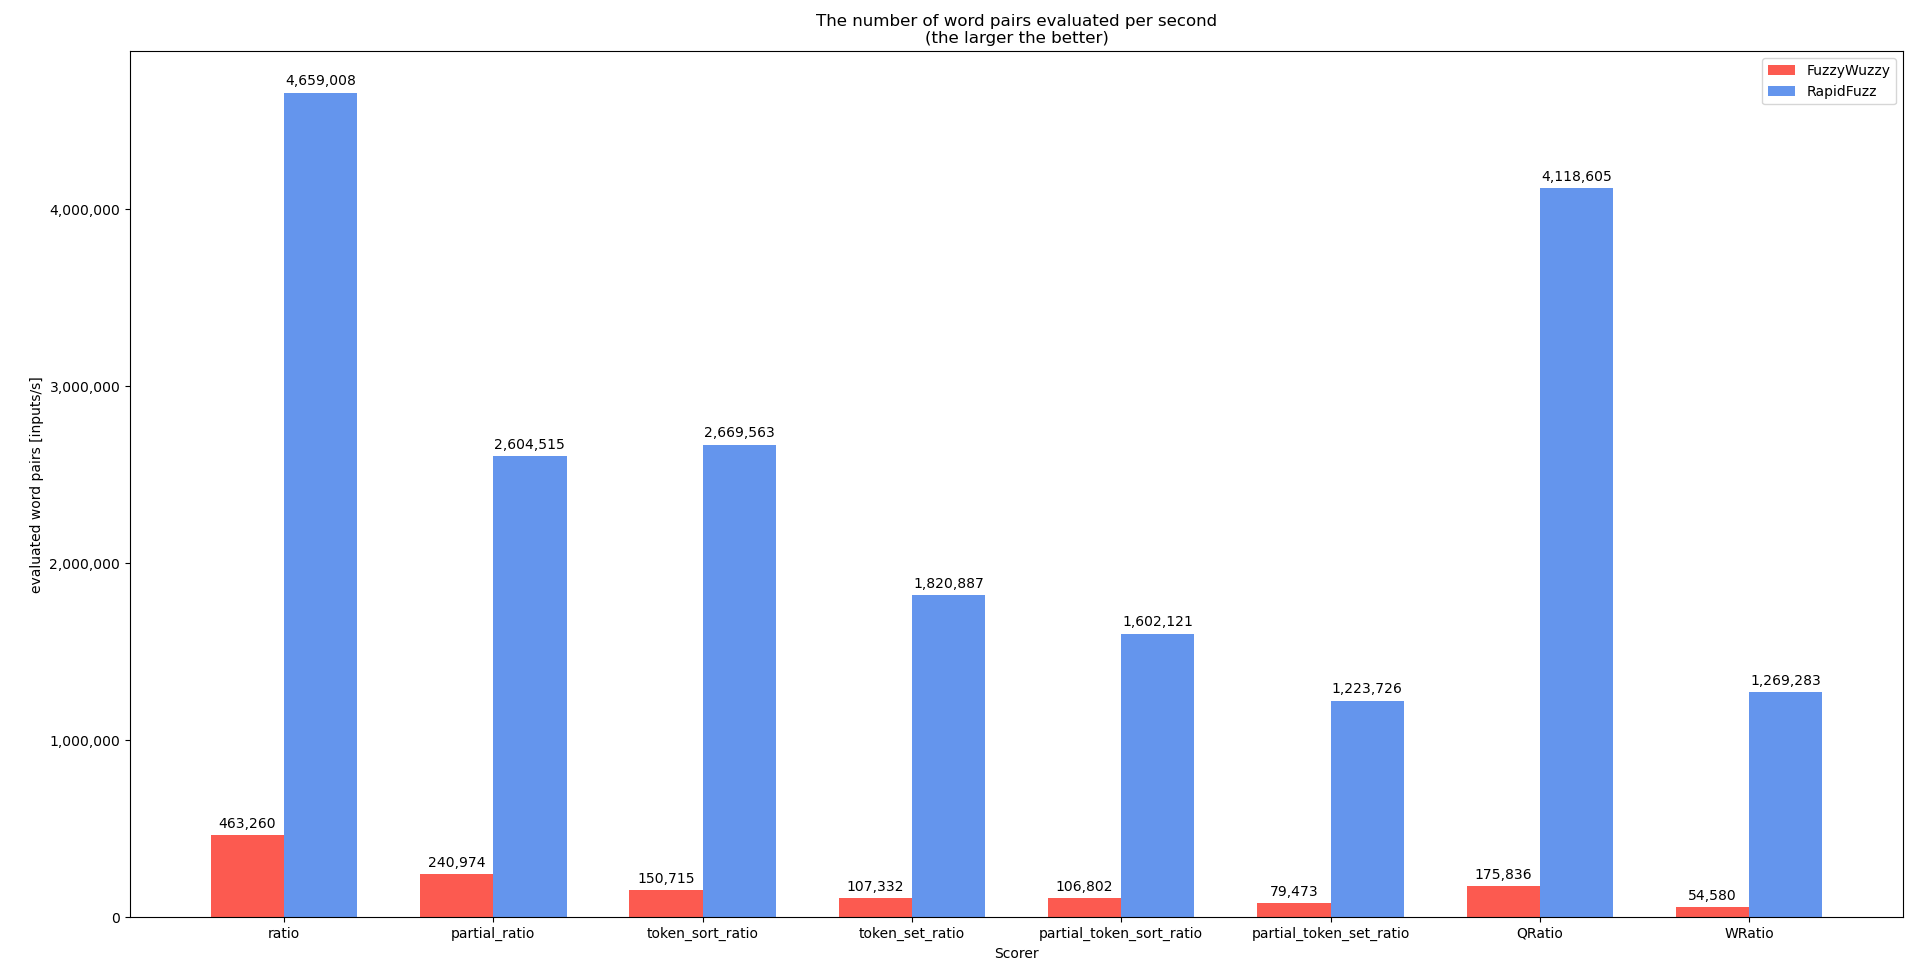
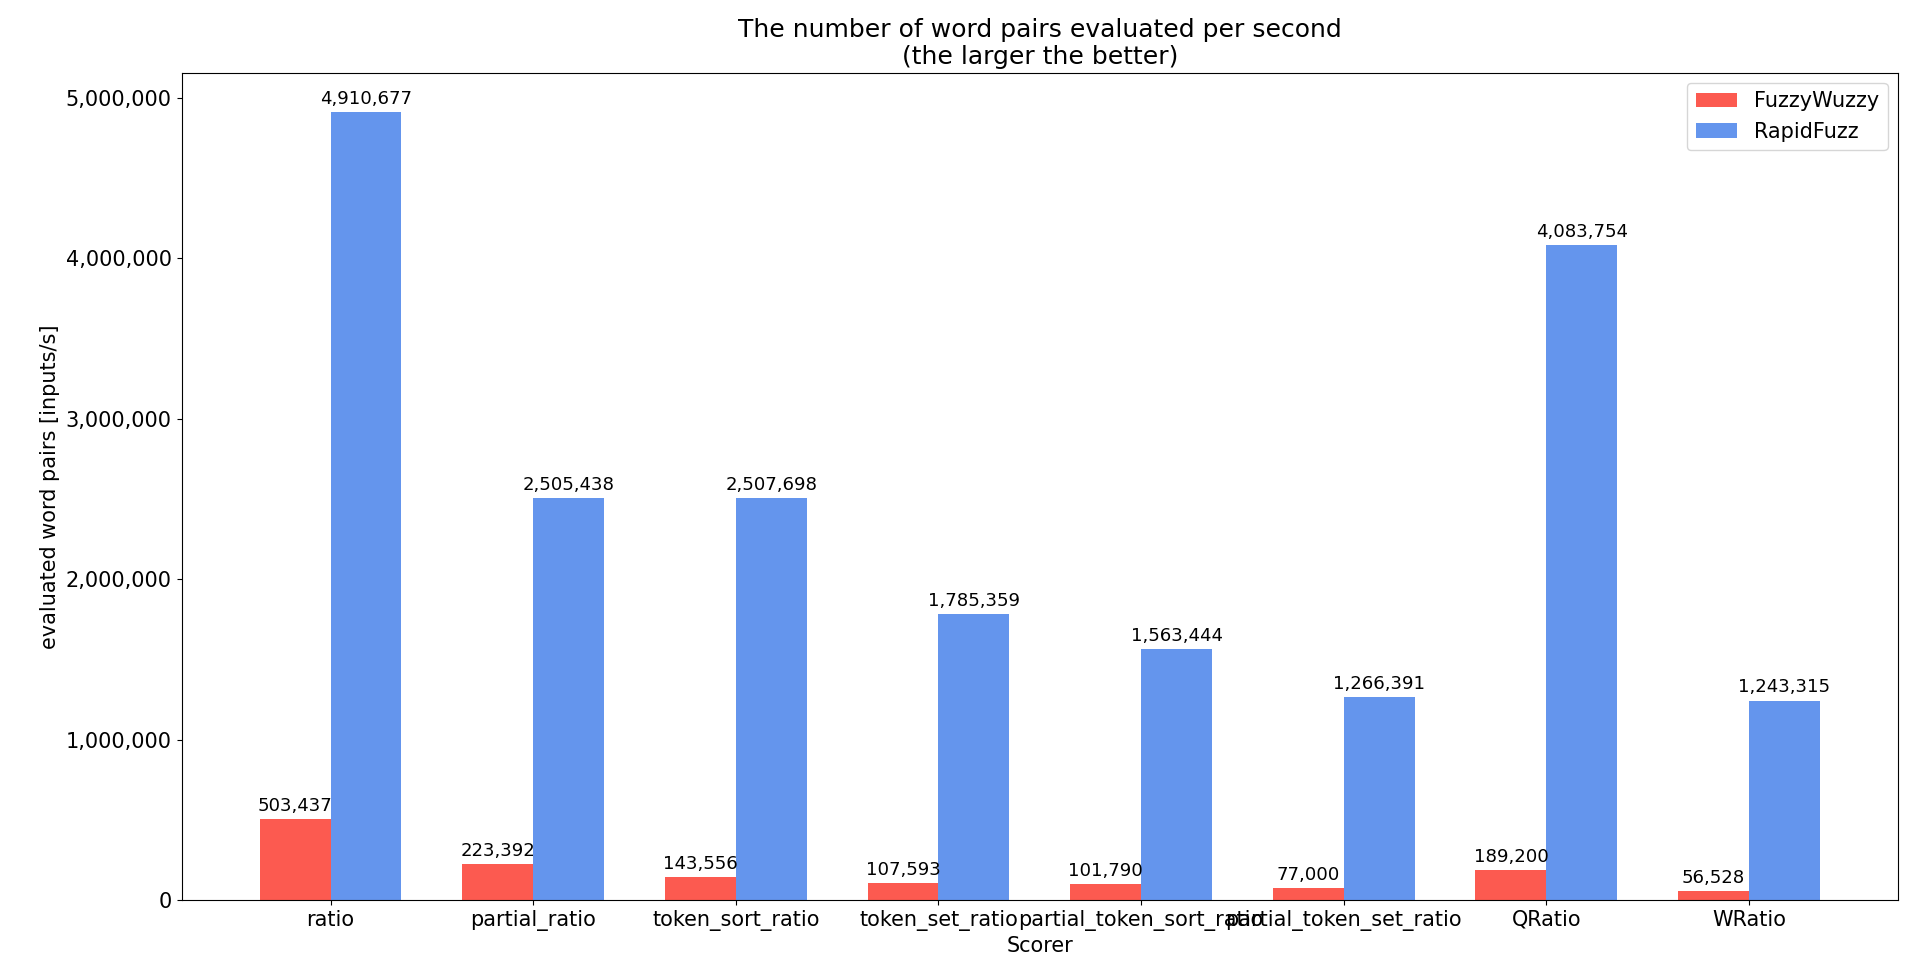
improve image

diff --git a/bench/benchmark_extractOne.py b/bench/benchmark_extractOne.py
@@ -9,6 +9,13 @@ import string
 
 random.seed(18)
 
+plt.rc('font', size=13)          # controls default text sizes
+plt.rc('axes', titlesize=18)     # fontsize of the axes title
+plt.rc('axes', labelsize=15)    # fontsize of the x and y labels
+plt.rc('xtick', labelsize=15)    # fontsize of the tick labels
+plt.rc('ytick', labelsize=15)    # fontsize of the tick labels
+plt.rc('legend', fontsize=15)    # legend fontsize
+
 PROCESSOR = {
     "ratio":False,
     "partial_ratio":False,
@@ -97,7 +104,8 @@ def benchmark():
     ax.set_xlabel('Scorer')
     ax.set_title('The number of word pairs evaluated per second\n(the larger the better)')
     ax.set_xticks(x)
-    ax.set_xticklabels(labels)
+    #ax.set_xticklabels(labels)
+    ax.set_xticklabels(labels, rotation=30 )
 
     ax.get_yaxis().set_major_formatter(
         matplotlib.ticker.FuncFormatter(lambda x, p: format(int(x), ',')))

diff --git a/bench/benchmark_scorer.py b/bench/benchmark_scorer.py
@@ -9,6 +9,13 @@ import string
 
 random.seed(18)
 
+plt.rc('font', size=13)          # controls default text sizes
+plt.rc('axes', titlesize=18)     # fontsize of the axes title
+plt.rc('axes', labelsize=15)    # fontsize of the x and y labels
+plt.rc('xtick', labelsize=15)    # fontsize of the tick labels
+plt.rc('ytick', labelsize=15)    # fontsize of the tick labels
+plt.rc('legend', fontsize=15)    # legend fontsize
+
 LIBRARIES = (
     "ratio",
     "partial_ratio",
